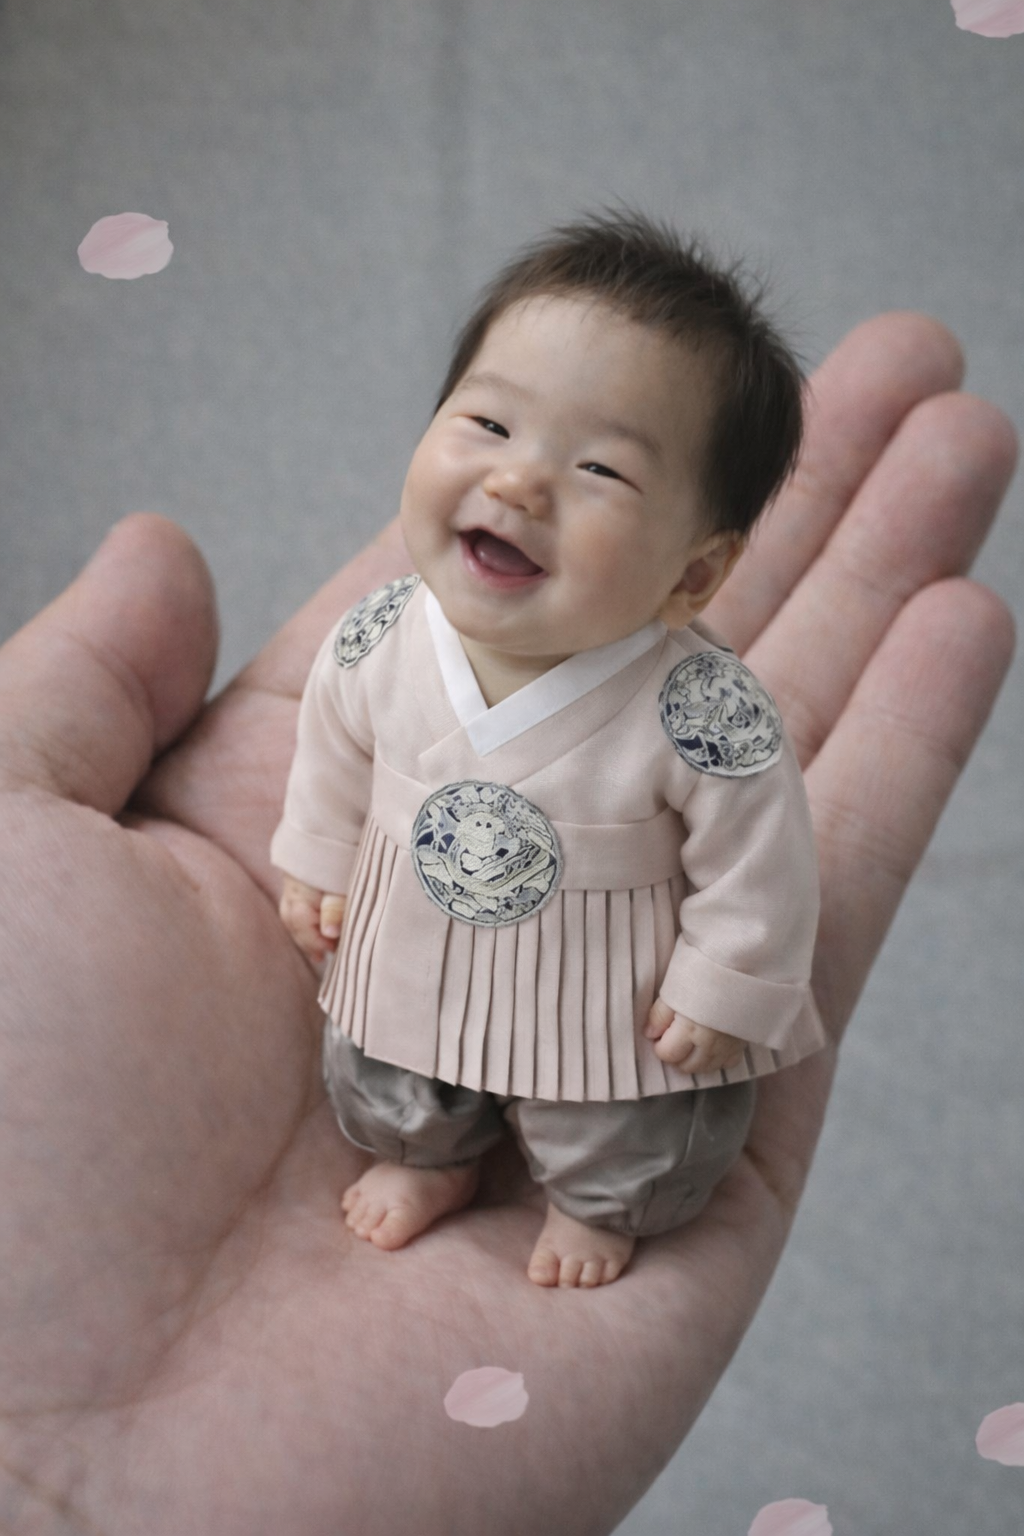
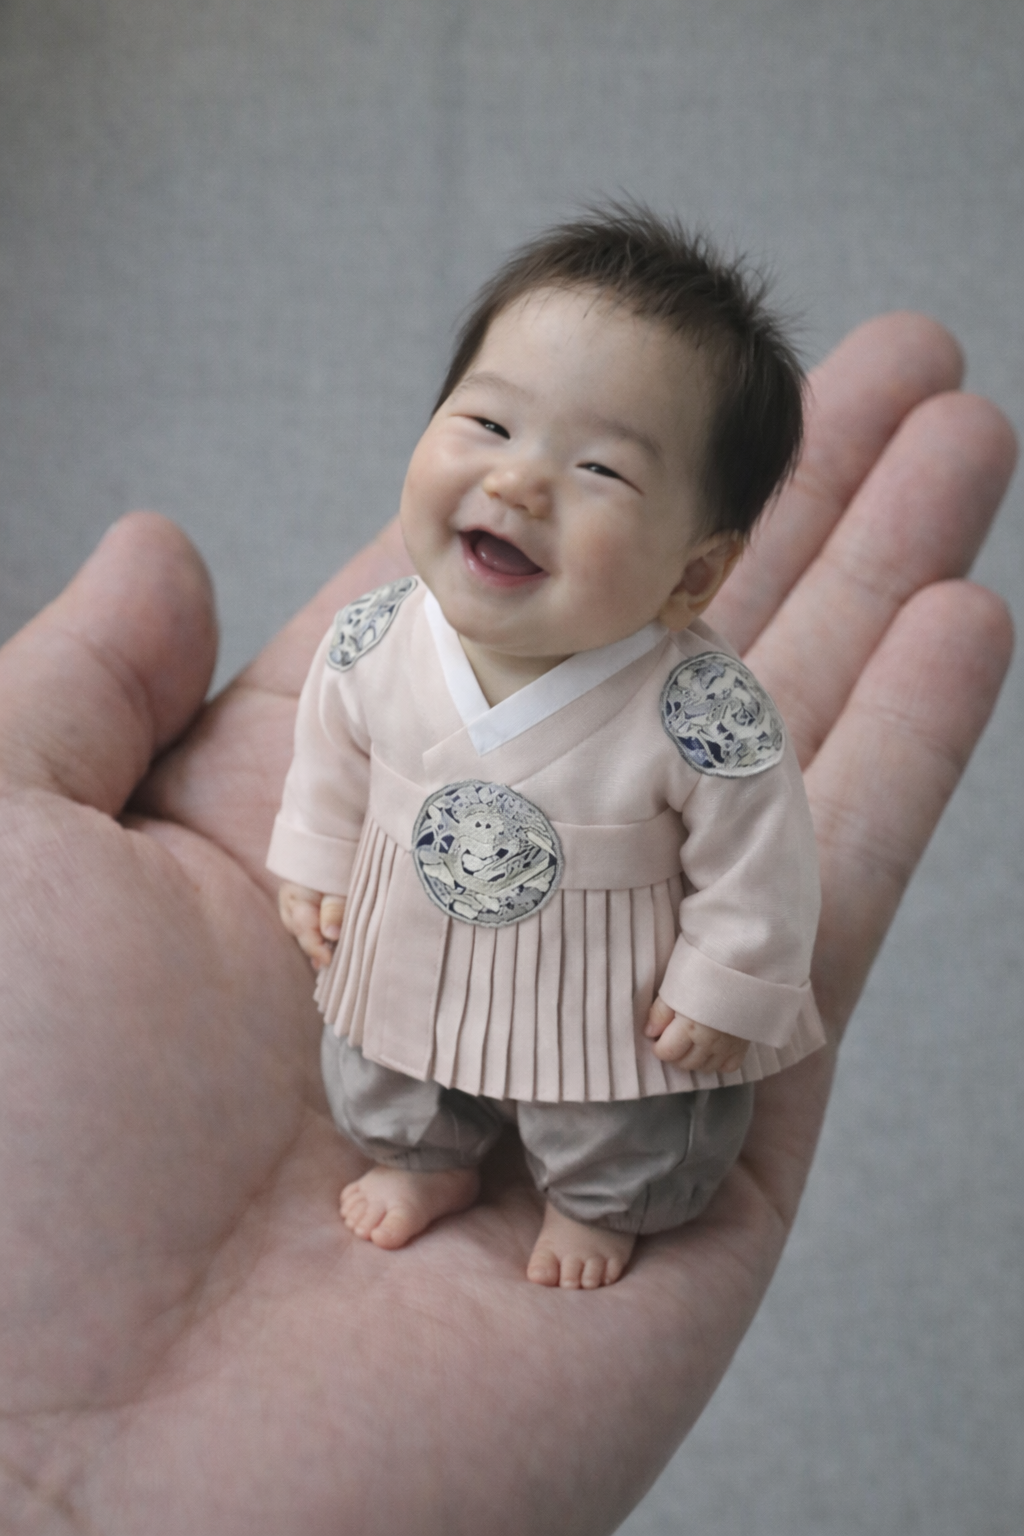
[수정] 이미지 변경

diff --git a/index.html b/index.html
@@ -7,7 +7,7 @@
       content="width=device-width, initial-scale=1, maximum-scale=1.0, user-scalable=0"
     />
     <meta property="og:type" content="website" />
-    <meta property="og:title" content="<%= GROOM_FULLNAME %>의 돌잔치에 초대합니다." />
+    <meta property="og:title" content="<%= GROOM_FIRSTNAME %>의 돌잔치에 초대합니다." />
     <meta property="og:image" content="/preview_image.png" />
     <meta property="og:url" content="%BASE_URL%/" />
     <meta property="og:description" content="<%= DESCRIPTION %>" />
@@ -16,7 +16,7 @@
     <link rel="manifest" href="/manifest.json" />
     <link rel="icon" href="/favicon.ico" />
     <link rel="stylesheet" href="/font.css" />
-    <title><%= GROOM_FULLNAME %>의 돌잔치에 초대합니다♥</title>
+    <title><%= GROOM_FIRSTNAME %>의 돌잔치에 초대합니다♥</title>
   </head>
   <body>
     <div id="root"></div>

diff --git a/src/images/index.ts b/src/images/index.ts
@@ -11,6 +11,14 @@ import image9 from "./image9.png"
 import image10 from "./image10.png"
 import image11 from "./image11.png"
 import image12 from "./image12.png"
+import image13 from "./image13.png"
+import image14 from "./image14.png"
+import image15 from "./image15.png"
+import image16 from "./image16.png"
+import image17 from "./image17.png"
+import image18 from "./image18.png"
+import image19 from "./image19.png"
+import image20 from "./image20.png"
 
 export const COVER_IMAGE = coverImage
 
@@ -27,4 +35,12 @@ export const GALLERY_IMAGES = [
   image10,
   image11,
   image12,
+  image13,
+  image14,
+  image15,
+  image16,
+  image17,
+  image18,
+  image19,
+  image20,
 ]

diff --git a/src/component/invitation/index.tsx b/src/component/invitation/index.tsx
@@ -34,7 +34,7 @@ export const Invitation = () => {
       <div className="content">소중한 가족들과 함께</div>
       <div className="content">엄마 아빠의 사랑스런 아들</div>
       <div className="break" />
-      <div className="content">♥지호♥의</div>
+      <div className="content">✨지호의✨</div>
       <div className="content">첫번째 생일잔치를 하려고 해요.</div>
       <div className="break" />
       <div className="content">기쁜날 함께 하시어</div>

diff --git a/src/component/bgEffect/index.tsx b/src/component/bgEffect/index.tsx
@@ -57,6 +57,8 @@ class Petal {
       }
     }
     this.ctx.globalAlpha = this.opacity
+    // Shift pink source petals toward yellow tones.
+    this.ctx.filter = "hue-rotate(95deg) saturate(1.25) brightness(1.05)"
     this.ctx.drawImage(
       this.petalImg,
       this.x,
@@ -64,6 +66,7 @@ class Petal {
       this.w * (0.6 + Math.abs(Math.cos(this.flip)) / 3),
       this.h * (0.8 + Math.abs(Math.sin(this.flip)) / 5),
     )
+    this.ctx.filter = "none"
   }
 
   animate() {

diff --git a/vite.config.ts b/vite.config.ts
@@ -6,6 +6,7 @@ import fs from "fs"
 import pkg from "./package.json"
 import { createHtmlPlugin } from "vite-plugin-html"
 import {
+  GROOM_FIRSTNAME,
   GROOM_FULLNAME,
   BIRTHDAY_DATE,
   LOCATION,
@@ -31,6 +32,7 @@ export default defineConfig({
     createHtmlPlugin({
       inject: {
         data: {
+          GROOM_FIRSTNAME,
           GROOM_FULLNAME,
           DESCRIPTION: `${BIRTHDAY_DATE.format(BIRTHDAY_DATE_FORMAT)} ${LOCATION}`,
         },

diff --git a/src/component/shareButton/index.tsx b/src/component/shareButton/index.tsx
@@ -29,7 +29,7 @@ export const ShareButton = () => {
             address: SHARE_ADDRESS,
             addressTitle: SHARE_ADDRESS_TITLE,
             content: {
-              title: `${GROOM_FULLNAME}의 생일잔치에 초대합니다🤍`,
+              title: `${GROOM_FULLNAME}의 생일잔치에 초대합니다.🤍`,
               description:
                 BIRTHDAY_DATE.format(BIRTHDAY_DATE_FORMAT) + "\n" + LOCATION,
               imageUrl:

diff --git a/src/const.ts b/src/const.ts
@@ -46,13 +46,13 @@ export const GROOM_INFO = [
   {
     relation: "아버지",
     name: GROOM_FATHER,
-    phone: "010-0000-0000",
+    phone: "010-7410-8485",
     account: "신한은행 000000000000",
   },
   {
     relation: "어머니",
     name: GROOM_MOTHER,
-    phone: "010-0000-0000",
+    phone: "010-2769-4486",
     account: "국민은행 000000000000",
   },
 ]

diff --git a/src/App.scss b/src/App.scss
@@ -11,10 +11,10 @@
 @use "./component/shareButton";
 
 :root {
-  --theme-color: #ff8585;
-  --theme-bg-color: #ffe7e7;
-  --alt-color: #c28080;
-  --alt-bg-color: #f4f0f0;
+  --theme-color: #c9a227;
+  --theme-bg-color: #fffbe6;
+  --alt-color: #b8941f;
+  --alt-bg-color: #fff8d6;
   --dark-color: #282c34;
   --dark-grey-color: #d2d2d2;
   --light-grey-color: #eaeaea;
